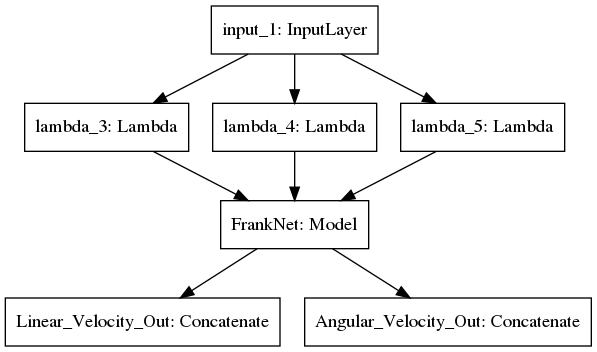
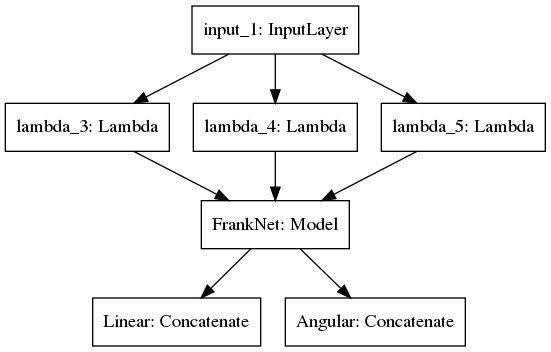
updated model

diff --git a/train.py b/train.py
@@ -28,7 +28,7 @@ matplotlib.use('TkAgg')
 #! Training Configuration
 EPOCHS = 10000
 INIT_LR = 1e-3
-BS = 19000
+BS = 64
 GPU_COUNT = 3
 
 #! Log Interpretation
@@ -89,15 +89,15 @@ print('Load all complete')
 single_model = FrankNet.build(200, 100)
 
 losses = {
-    "Linear_Velocity_Out": "mse",
-    "Angular_Velocity_Out": "mse"
+    "Linear": "mse",
+    "Angular": "mse"
 }
-lossWeights = {"Linear_Velocity_Out": 1.0, "Angular_Velocity_Out": 5.0}
+lossWeights = {"Linear": 1.0, "Angular": 50.0}
 
 
 opt = Adam(lr=INIT_LR, decay=INIT_LR / EPOCHS)
 
-metrics_list = ["mean_squared_error", rmse, r_square]
+metrics_list = ["mse", rmse, r_square]
 
 model = multi_gpu_model(single_model, gpus=GPU_COUNT)
 #model = single_model
@@ -116,24 +116,12 @@ checkpoint = ModelCheckpoint(filepath, monitor='loss', verbose=1, save_best_only
 callbacks_list = [checkpoint,tensorboard]
 
 history = model.fit(observation,
-                    {"Linear_Velocity_Out": linear,
-                        "Angular_Velocity_Out": angular},
+                    {"Linear": linear,
+                        "Angular": angular},
                     epochs=EPOCHS,callbacks=callbacks_list, verbose=1)
 
 model.save('FrankNet.h5')
-"""
-dict_keys([ 'val_loss', 
-            'val_Linear_Velocity_Out_loss', 
-            'val_Angular_Velocity_Out_loss', 
-            'val_Linear_Velocity_Out_accuracy', 
-            'val_Angular_Velocity_Out_accuracy', 
-            'loss', 
-            'Linear_Velocity_Out_loss', 
-            'Angular_Velocity_Out_loss', 
-            'Linear_Velocity_Out_accuracy', 
-            'Angular_Velocity_Out_accuracy'])
 
-"""
 # list all data in history
 print(history.history.keys())
 # summarize history for loss
@@ -146,8 +134,8 @@ plt.legend(['train', 'test'], loc='upper left')
 plt.show()
 
 # summarize history for accuracy
-plt.plot(history.history['Linear_Velocity_Out_accuracy'])
-plt.plot(history.history['Angular_Velocity_Out_accuracy'])
+plt.plot(history.history['Linear_accuracy'])
+plt.plot(history.history['Angular_accuracy'])
 plt.title('model accuracy')
 plt.ylabel('accuracy')
 plt.xlabel('epoch')

diff --git a/frankmodel.py b/frankmodel.py
@@ -41,7 +41,7 @@ class FrankNet:
         x = Dense(100)(x)
         x = Dense(50)(x)
         x = Dense(10)(x)
-        x = Dense(1,name="Linear_Velocity_Out")(x)
+        x = Dense(1,name="Linear")(x)
 
         return x
 
@@ -74,7 +74,7 @@ class FrankNet:
         x = Dense(100)(x)
         x = Dense(50)(x)
         x = Dense(10)(x)
-        x = Dense(1,name="Angular_Velocity_Out")(x)
+        x = Dense(1,name="Angular")(x)
 
         return x
 
